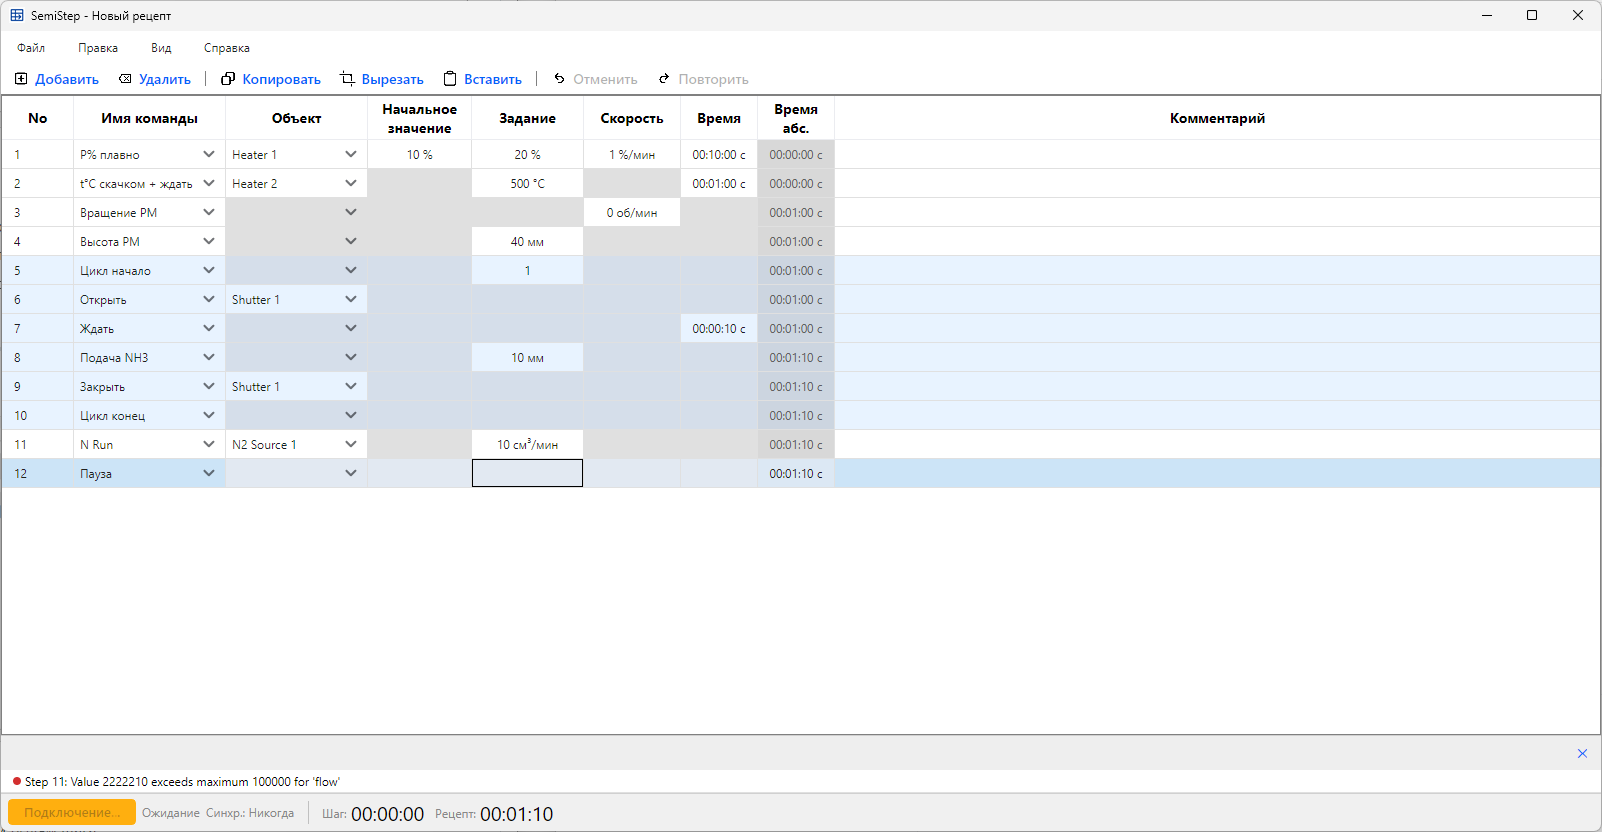
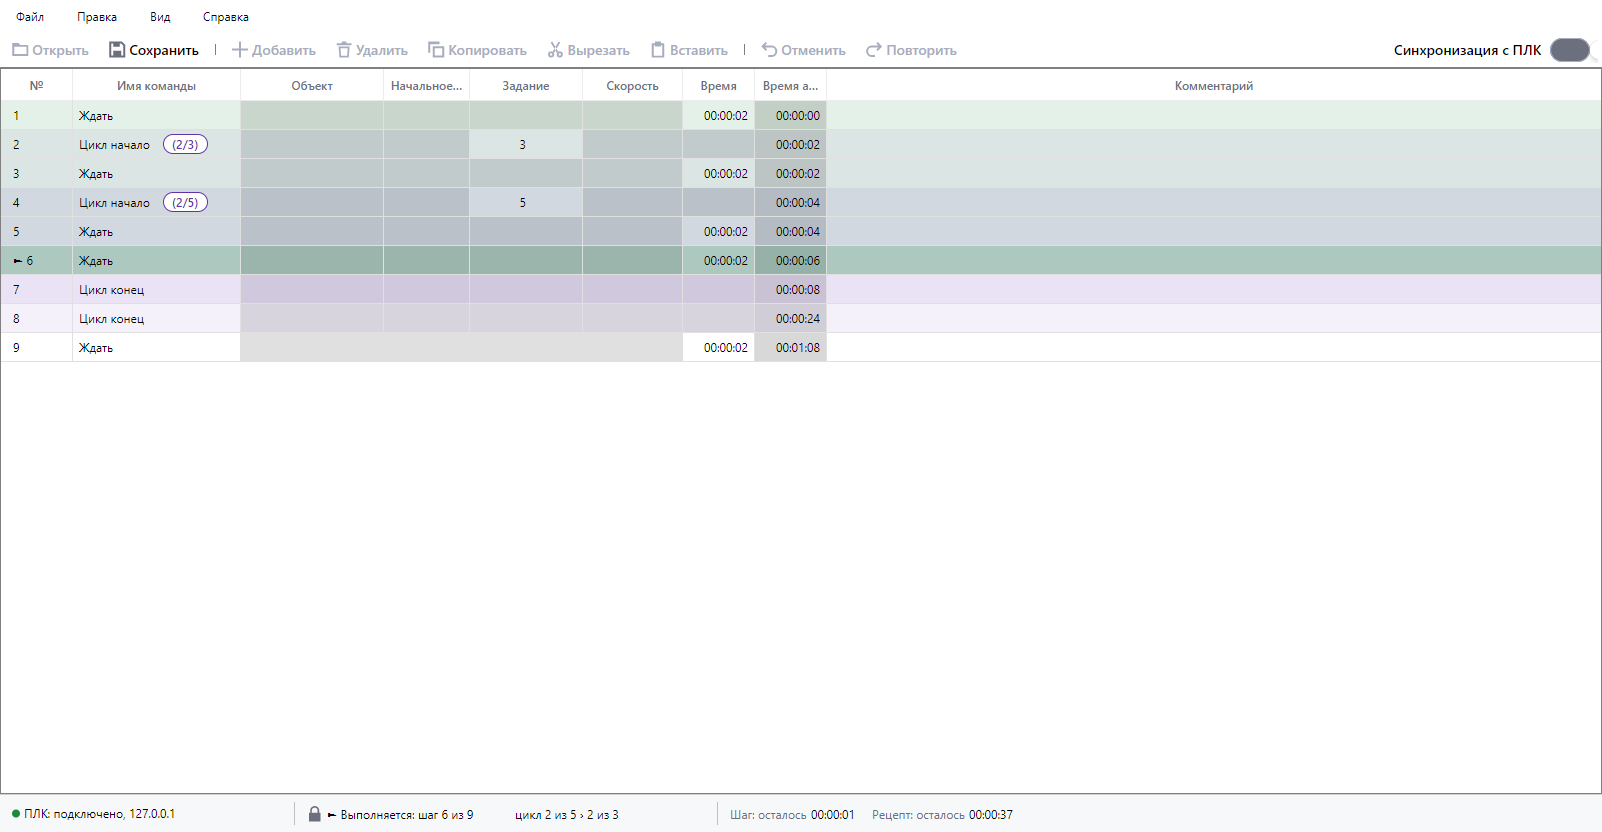
docs(readme): retake the main window screenshot (#230)
The old screenshot showed the previous status bar, PNG toolbar icons and old units, so it is replaced with a capture of a nested-loop recipe running against the emulator.

diff --git a/docs/readme.md b/docs/readme.md
@@ -124,8 +124,8 @@ _Окно установки MOCVD._
 - статус-бар из слотов постоянной ширины: связь с ПЛК, исполнение рецепта с шагом и циклами, оставшееся время шага и рецепта, счётчики ошибок и предупреждений (раздел 4.4);
 - панель сообщений/логов.
 
-![Главное окно с загруженным рецептом](./img/app_connection_example.png)
-_Главное окно с загруженным рецептом, внизу — панель валидации._
+![Главное окно во время выполнения рецепта](./img/app_connection_example.png)
+_Главное окно во время выполнения: текущий шаг выделен зелёным, пройденные строки подкрашены, у циклов — счётчик прохода, статус-бар показывает связь с ПЛК, шаг, циклы и оставшееся время._
 
 ---
 
